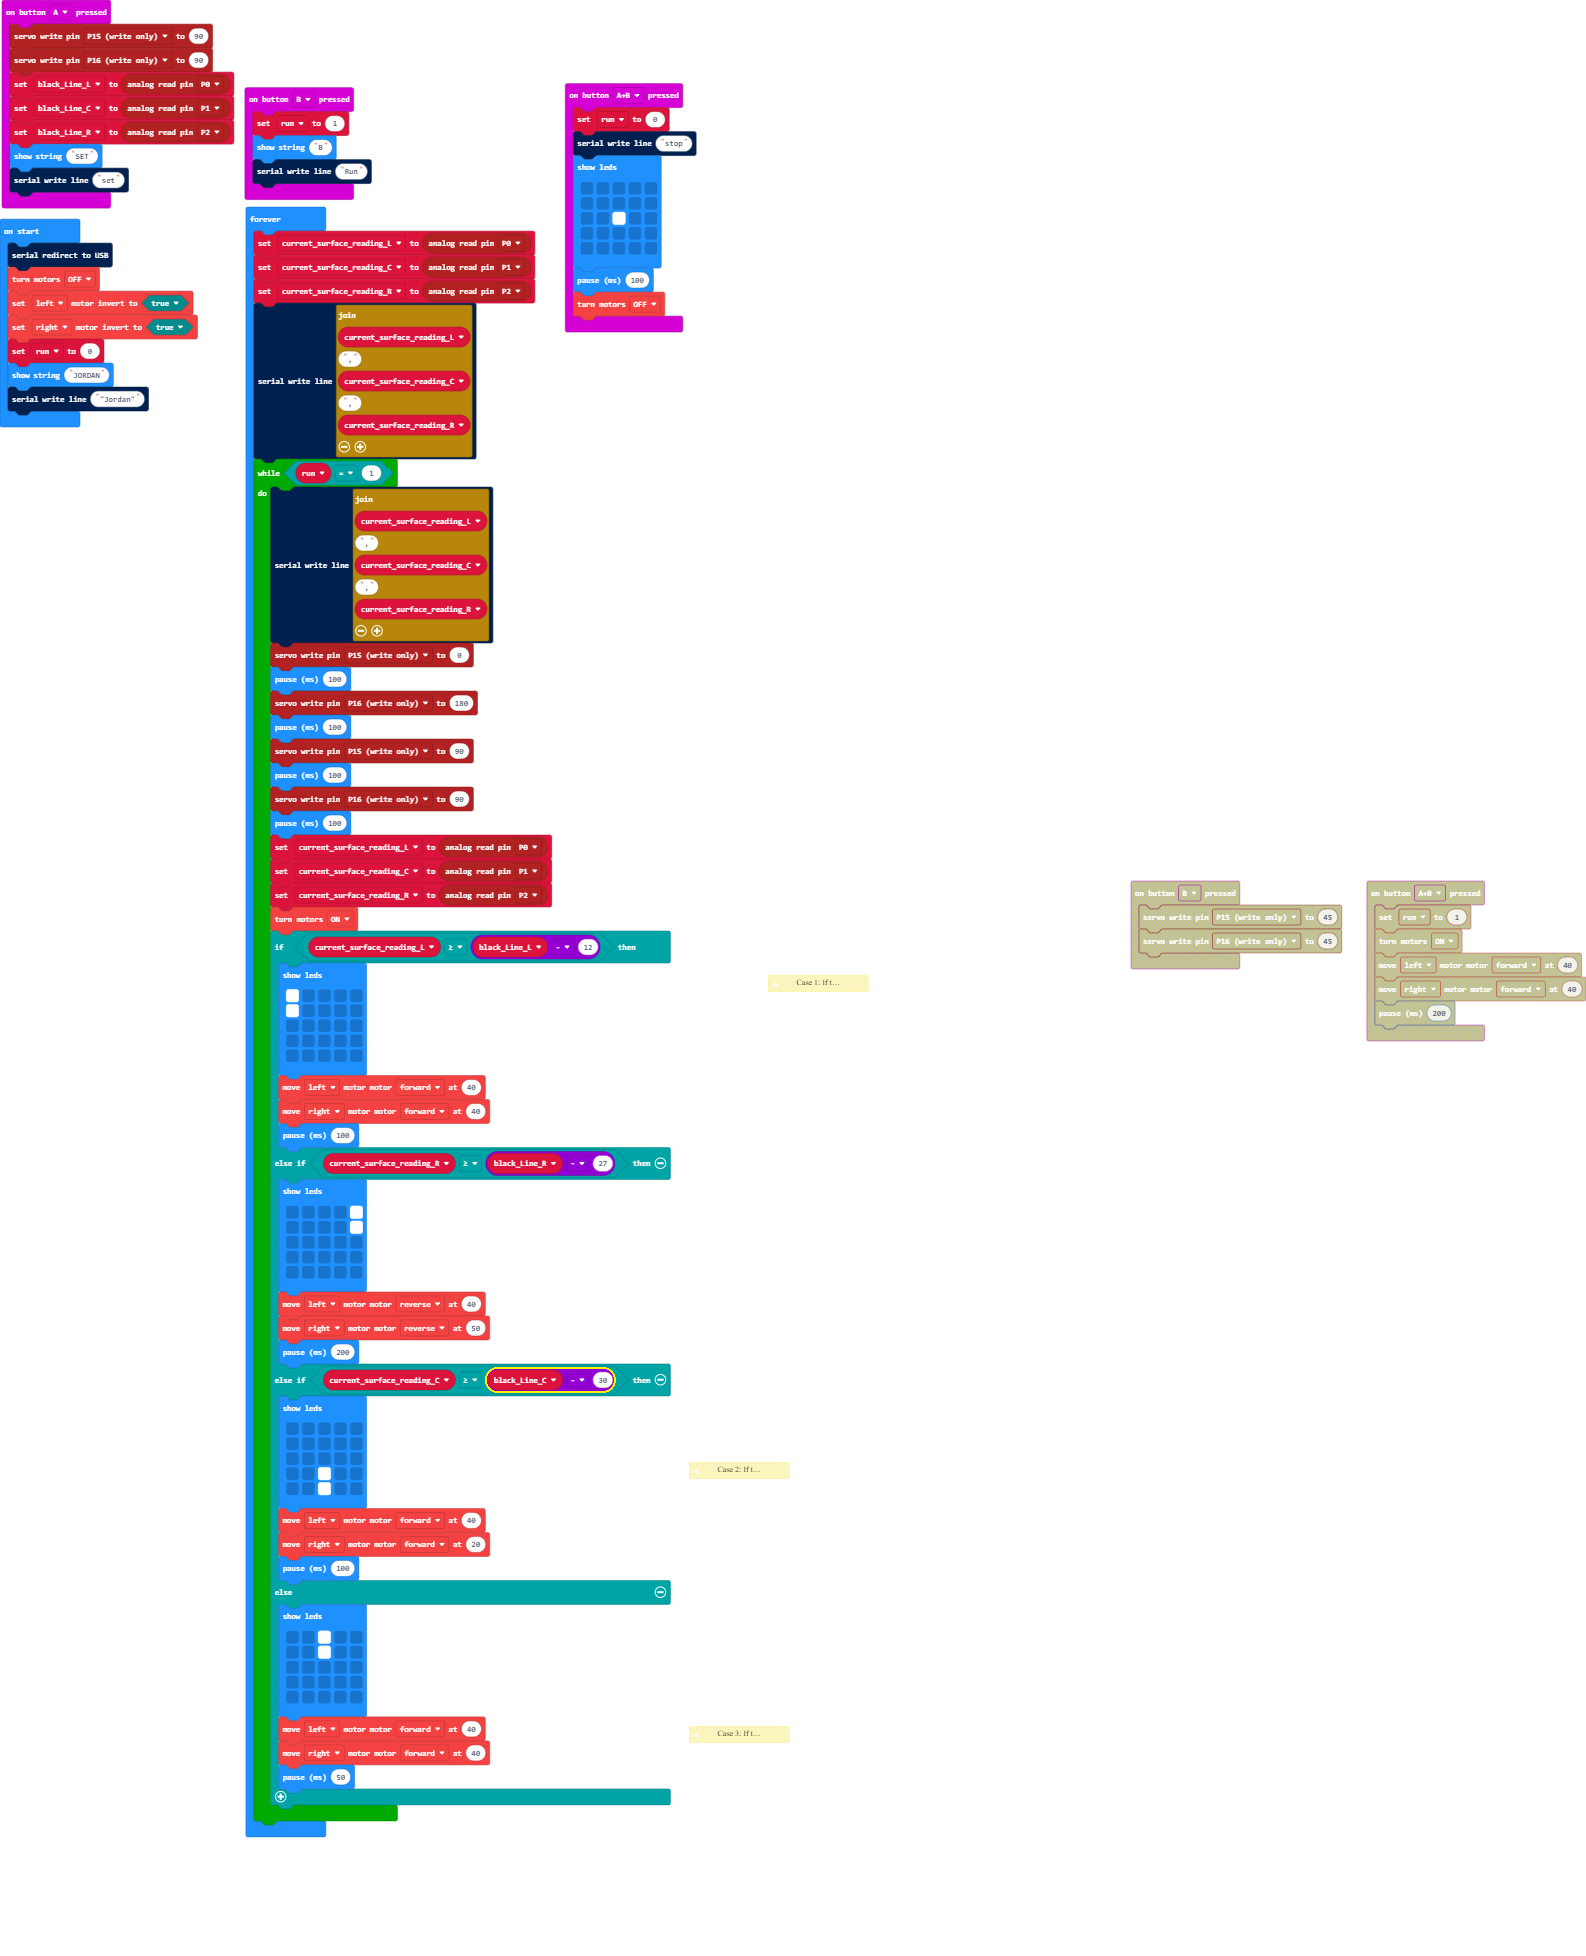
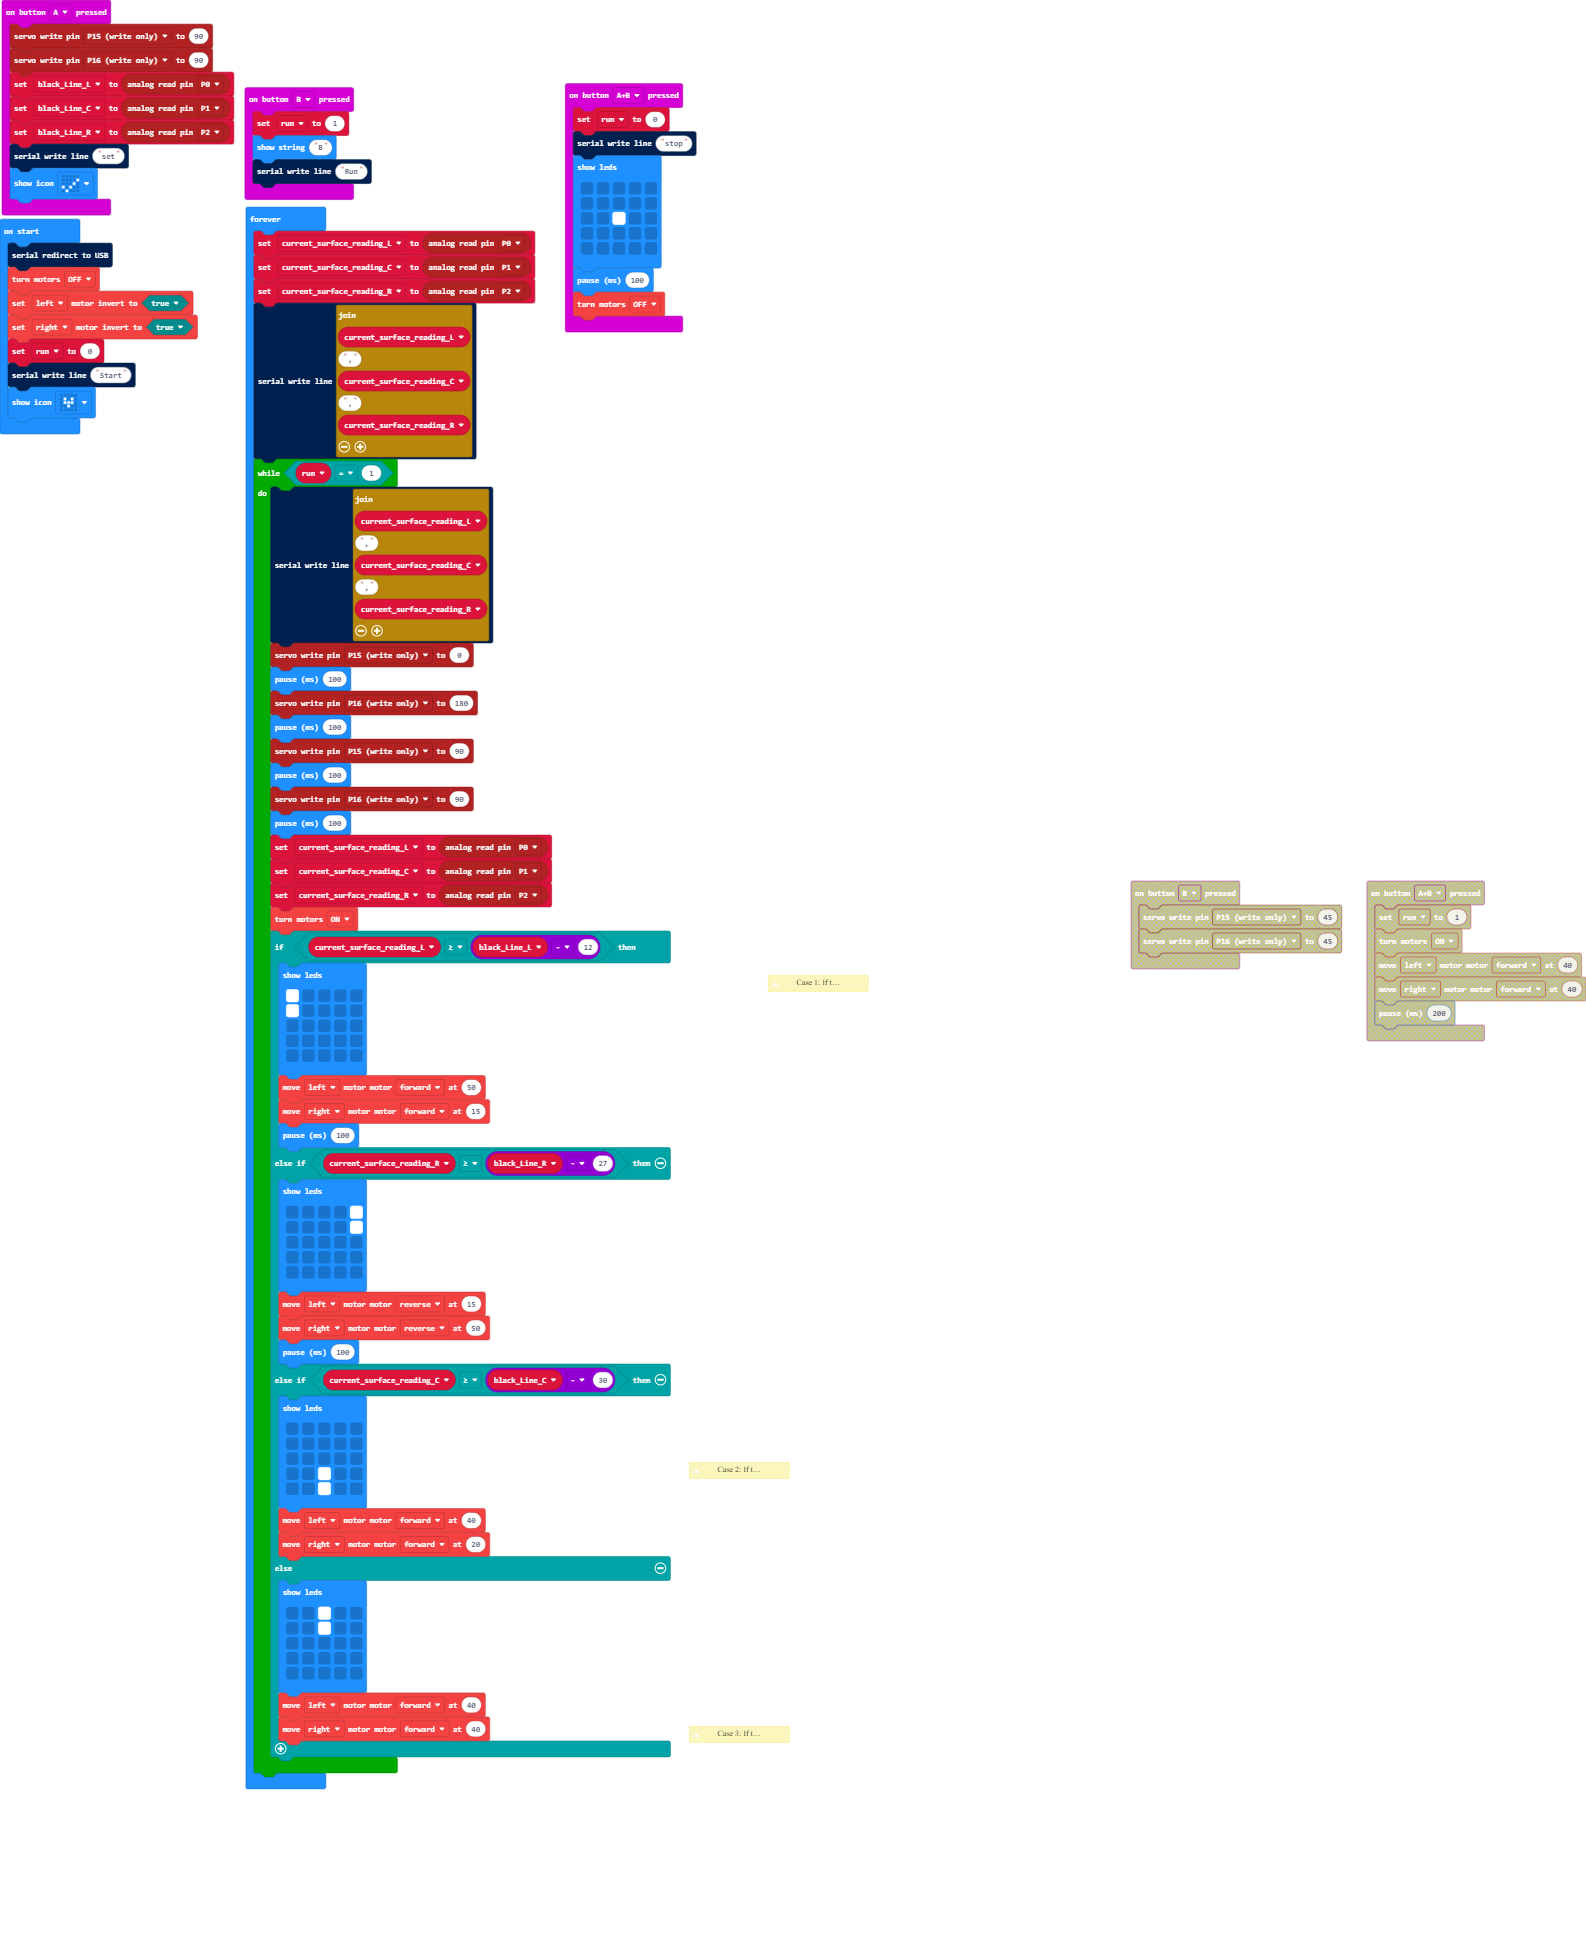
Update main.blocks, main.ts

Changed region(s): [[0.1545, 0.7797, 0.4325, 0.9668], [0.0, 0.0624, 0.0927, 0.1247], [0.0, 0.1871, 0.0927, 0.2495]]

diff --git a/main.ts b/main.ts
@@ -13,8 +13,8 @@ input.onButtonPressed(Button.A, function () {
     black_Line_L = pins.analogReadPin(AnalogPin.P0)
     black_Line_C = pins.analogReadPin(AnalogPin.P1)
     black_Line_R = pins.analogReadPin(AnalogPin.P2)
-    basic.showString("SET")
     serial.writeLine("set")
+    basic.showIcon(IconNames.Yes)
 })
 input.onButtonPressed(Button.AB, function () {
     run = 0
@@ -46,8 +46,8 @@ motobit.enable(MotorPower.Off)
 motobit.invert(Motor.Left, true)
 motobit.invert(Motor.Right, true)
 run = 0
-basic.showString("JORDAN")
-serial.writeLine("\"Jordan\"")
+serial.writeLine("Start")
+basic.showIcon(IconNames.SmallHeart)
 basic.forever(function () {
     current_surface_reading_L = pins.analogReadPin(AnalogPin.P0)
     current_surface_reading_C = pins.analogReadPin(AnalogPin.P1)
@@ -75,8 +75,8 @@ basic.forever(function () {
                 . . . . .
                 . . . . .
                 `)
-            motobit.setMotorSpeed(Motor.Left, MotorDirection.Forward, 40)
-            motobit.setMotorSpeed(Motor.Right, MotorDirection.Forward, 40)
+            motobit.setMotorSpeed(Motor.Left, MotorDirection.Forward, 50)
+            motobit.setMotorSpeed(Motor.Right, MotorDirection.Forward, 15)
             basic.pause(100)
         } else if (current_surface_reading_R >= black_Line_R - 27) {
             basic.showLeds(`
@@ -86,9 +86,9 @@ basic.forever(function () {
                 . . . . .
                 . . . . .
                 `)
-            motobit.setMotorSpeed(Motor.Left, MotorDirection.Reverse, 40)
+            motobit.setMotorSpeed(Motor.Left, MotorDirection.Reverse, 15)
             motobit.setMotorSpeed(Motor.Right, MotorDirection.Reverse, 50)
-            basic.pause(200)
+            basic.pause(100)
         } else if (current_surface_reading_C >= black_Line_C - 30) {
             basic.showLeds(`
                 . . . . .
@@ -99,7 +99,6 @@ basic.forever(function () {
                 `)
             motobit.setMotorSpeed(Motor.Left, MotorDirection.Forward, 40)
             motobit.setMotorSpeed(Motor.Right, MotorDirection.Forward, 20)
-            basic.pause(100)
         } else {
             basic.showLeds(`
                 . . # . .
@@ -110,7 +109,6 @@ basic.forever(function () {
                 `)
             motobit.setMotorSpeed(Motor.Left, MotorDirection.Forward, 40)
             motobit.setMotorSpeed(Motor.Right, MotorDirection.Forward, 40)
-            basic.pause(50)
         }
     }
 })
